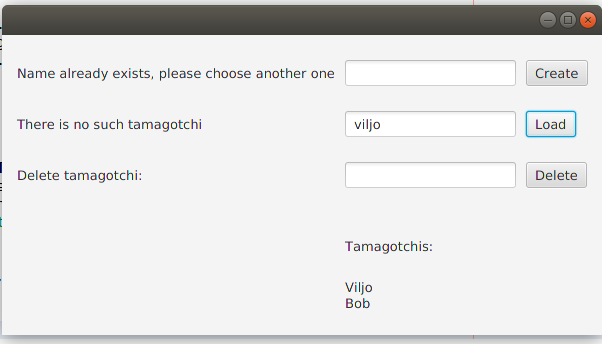
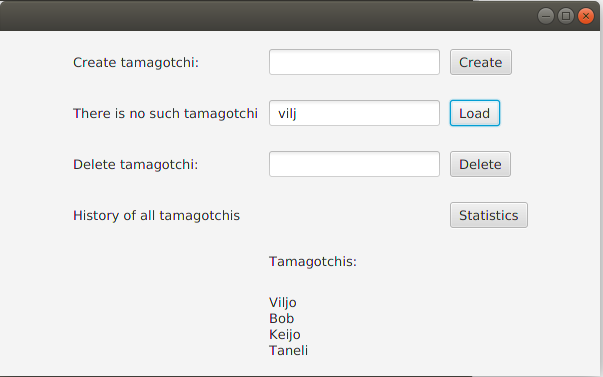
arkkitehtuurikuvaus ja käyttöohje muokkaukset

diff --git a/dokumentaatio/arkkitehtuuri.md b/dokumentaatio/arkkitehtuuri.md
@@ -1,18 +1,38 @@
 # Arkkitehtuurikuvaus
 
-### Rakenne
+## Rakenne
 
-Pakkaus ui sisältää javaFX:llä toteutetun käyttöliittymän, pakkaus domain sisältää sovelluslogiikan ja pakkaus dao sisältää tietojen talletuksesta tietokantaan vastaavat luokat
+Pakkaus ui sisältää javaFX:llä toteutetun käyttöliittymän, pakkaus domain sisältää sovelluslogiikan ja pakkaus dao sisältää tietokannanhallinnasta vastaavat luokat. Database pakkaus sisältää tietokantayhteyden hallinnan. 
+
+## Käyttöliittymä
+
+Käyttöliittymä sisältää neljä erillistä näkymää: 
+
+- alkunäkymä
+- pelinäkymä
+- kuollut näkymä
+- historia ja ikänäkymä
+
+Jokainen näkymistä on toteutettu omana Scene-oliona. Jokaisesta näkymästä on näkyvänä yksi sijoitettuna sovelluksen stageen. Graafinen käyttöliittymä on luokassa ui.TamagotchiGameUi. 
+
+Käyttöliittymä on eriytetty sovelluslogiikasta. Käyttöliittymäluokka TamagotchiGameUi käyttää TamagotchiService-luokan metoden sovelluslogiikan suorittamiseen. 
+
+## Sovelluslogiikka 
+
+Sovelluslogiikan suorittamisesta vastaa TamagotchiService luokka. Dao pakkauksessa olevien luokkien kautta, pääsee TamagotchiService käsiksi tietokannan sisältämiin tietoihin. TamagotchiService tuntee kulloinkin pelissä olevan tamagotchin. 
+
+TamagotchiServicen sekä muiden luokkien ja pakkausten suhdetta kuvaava luokka/pakkauskaavio:
+
+![alt.text](kaavio.png)
+
+## Tietojen pysyväistallennus
+
+Dao pakkauksen luokat vastaavat tamagotchin tietojen tallentamisesta tietokantaan. Tietokanta käyttää kahta tietokantataulua: Tamagotchi ja TamagotchiAges. Ohjelma luo tietokantataulut alussa, jos niitä ei ole olemassa. Sovellus ottaa tietokantayhdeyden aina kun tamagotchi lisätään, poistetaan tai sitä päivitetään. Ohjelman suoritusaikana tietokantaan päivitetään tamagotchin hoitotoiminnot, ajan kulumisen vaikutus päivitetään ohjelmassa tai kun tamagotchi ladataan ohjelman oltua kiinni. Sovelluksen testeissä käytetään testitietokantaa. 
 
 
-### Sovelluslogiikka 
+## Päätoiminnallisuudet
 
-
-![alt.text](kaavio.jpg)
-
-### Päätoiminnallisuudet
-
-#### Uuden tamagotchin luominen
+### Uuden tamagotchin luominen
 
 Kun alkunäkymä on päällä ja käyttäjä on kirjoittanut tekstikenttään uuden tamagotchin nimen, jota ei ole jo olemassa tietokannassa, etenee uuden tamagotchin luominen seuraavasti: 
 

diff --git a/dokumentaatio/kayttoohje.md b/dokumentaatio/kayttoohje.md
@@ -15,13 +15,13 @@ Sovellus käynnistyy alkunäkymään, jossa voi valita haluaako luoda uuden tama
 
 ![alt.text](kayttoohjekuvat/alkunakyma_luo.png)
 
-Uuden tamagotchin luominen tapahtuu syöttämällä nimi nimikenttään painamalla create nappia. Nime
+Uuden tamagotchin luominen tapahtuu syöttämällä nimi nimikenttään painamalla create nappia. Nimeä ei saa olla toisella tamagotchilla ja sen tulee olla vähintään 2 merkkiä pitkä. 
 
 ![alt.text](kayttoohjekuvat/alkunakyma_load.png)
 
 Olemassaolevan tamagotchin lataaminen tapahtuu syöttämällä nimi nimikenttään ja painamalla load nappia. Nimi tulee syöttää täysin oikein ja jos tamagotchia ei ole olemassa, ohjelma ilmoittaa siitä. Alkunäkymä myös näyttää alalaidassa kaikki tietokannassa olevat tamagotchit listana. 
 
-Tietokannassa olevan tamagotchin voi poistaa syöttämällä nimen nimikenttään ja painamalla delete nappia. Kun uuden tamagotchin luominen tai vanhan lataaminen onnistuu, siirrytään pelinäkymään. 
+Tietokannassa olevan tamagotchin voi poistaa syöttämällä nimen nimikenttään ja painamalla delete nappia. Statistics nappia painamalla pääsee katsomaan tietoja kaikista tamagotcheista, jotka ovat olleet tai ovat edelleen pelissä sekä tarkastamaan jokaisen syntymäpäivän ja iän päivinä. Kun uuden tamagotchin luominen tai vanhan lataaminen onnistuu, siirrytään pelinäkymään. 
 
 
 ## Pelinäkymä

diff --git a/dokumentaatio/tuntikirjanpito.md b/dokumentaatio/tuntikirjanpito.md
@@ -21,5 +21,5 @@ päivä |  aika |  mitä tein
 14.4 | 1 | pieni muutos sekvenssikaavioon, ohjelman ajan muutos niin, että painikeanimaation aikaa voi säätää ja se on sama kaikilla
 19.4 | 8 | uuden luokan database luominen, statistics luominen, joka näyttää tamagotchin tilanteen napista, kuvien tekoa, pienten toimintojen muutoksia (nimi pitää olla väh 3 merkkiä kun luo tamagotchin) sekä frame, että kun uusi tamagotchi niin aluksi muna näkyy 30 sekuntia ennen syntymää, baby toiminnot, että ensimmäiset 3 päivää tamagotchi on vauva ja sitten kehittyy
 20.4 | 3 | Javadocin aloitusta, tamagotchin toimintojen muutosta niin, että kaikki arvot ovat ajan myötä nousevia ja statistics tilasto helpommin luettavissa, uuden tietokantaluokan hahmottelua, testien muokkaus, koodin muokkausta
-22.4 | 5 | Javadocin tekoa, pieniä muokkauksia ohjelmaan, käyttöohjeen tekoa, uuden tietokantataulun saattaminen toimintaan ja ohjelmaan uuden näkymän lisäys, jossa tamagotchien tietoja ja iät
-yht | 67 |
+22.4 | 6 | Javadocin tekoa, pieniä muokkauksia ohjelmaan, käyttöohjeen tekoa, uuden tietokantataulun saattaminen toimintaan ja ohjelmaan uuden näkymän lisäys, jossa tamagotchien tietoja ja iät, dokumentaation tekoa
+yht | 68 |
